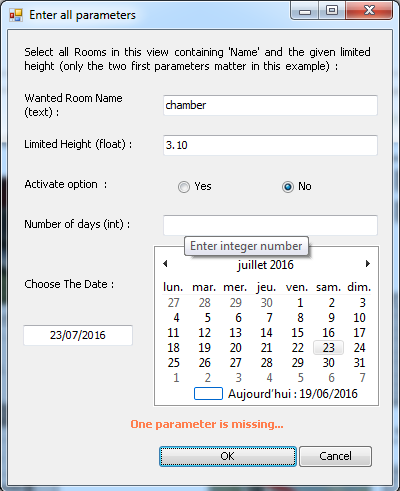
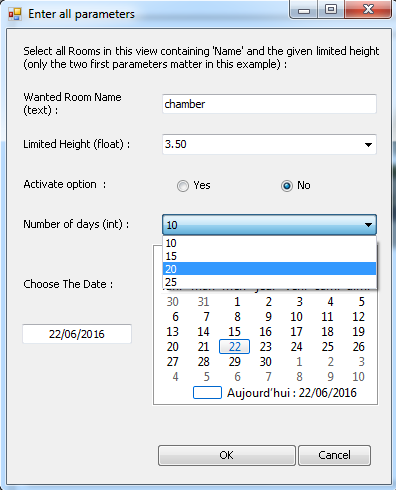
update readme

diff --git a/Example-Class-Forms/README.md b/Example-Class-Forms/README.md
@@ -1,7 +1,7 @@
 # Class Forms for User Inputs
 
 ### Introduction
-This file provides an example (not a model) of class to automate the creation of basic windows forms. You can use it quite like a TaskDialog, plus you can ask user inputs.
+This file provides an example (not a model) of class to automate the creation of basic windows/forms. You can use it quite like a TaskDialog, plus you can ask user inputs.
 It builds the form depending on the given parameters, and contains some features to check and convert them in the right format.
 So you only have to define these parameters and display the box. The function will be called by the window itself, no need to catch the answer after.
 
@@ -19,19 +19,26 @@ In your code :
 # import class winforms
 from userform import InputFormParameters
 
+listheight = ['2.80','2.90','3.10','3.50']
+listdays = ['10','15','20','25']
+
 # creation of input box
 dialog = InputFormParameters(
-    selectRoomByNameHeight,         # ref function
-    ['Wanted Room Name','text'],    # parameters ...
-    ['Limited Height','float'],
-    ['Activate option ','bool'],
-    ['Number of days','int'],
-    ['Choose The Date', 'date']
+    selectRoomByNameHeight,                 # ref function
+    
+    ['Wanted Room Name', 'text'],            # type text
+    
+    ['Limited Height', 'float', listheight],  # type decimal with a combobox
+    
+    ['Activate option ', 'bool'],            # type boolean
+    
+    ['Number of days', 'int', listdays, False], # type integer with a combobox (read only)
+    
+    ['Choose The Date', 'date']             # type date
     )
 
 # display the form
 dialog.showBox()
-
 ```
 In Revit :
 
